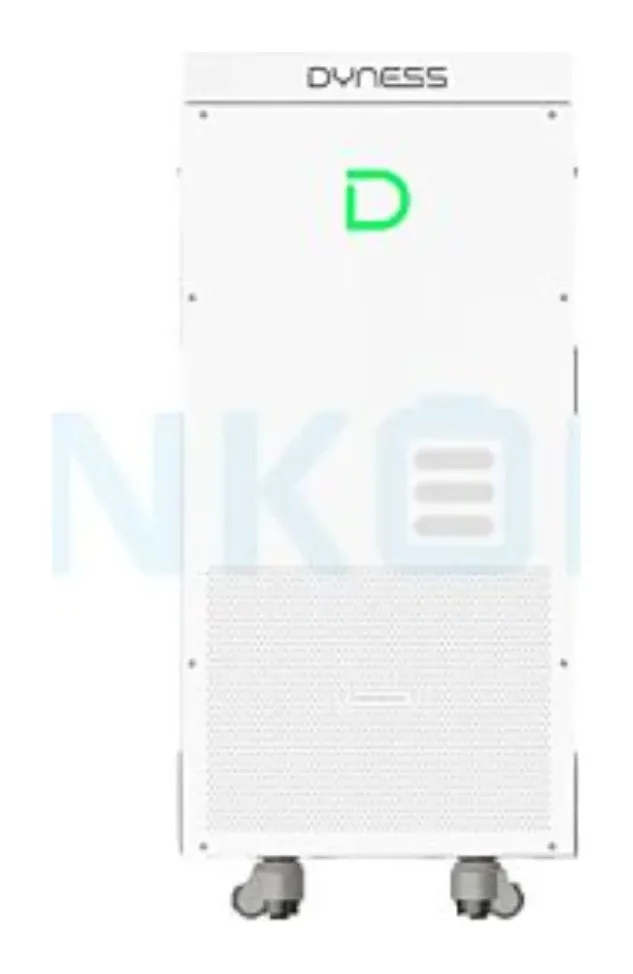
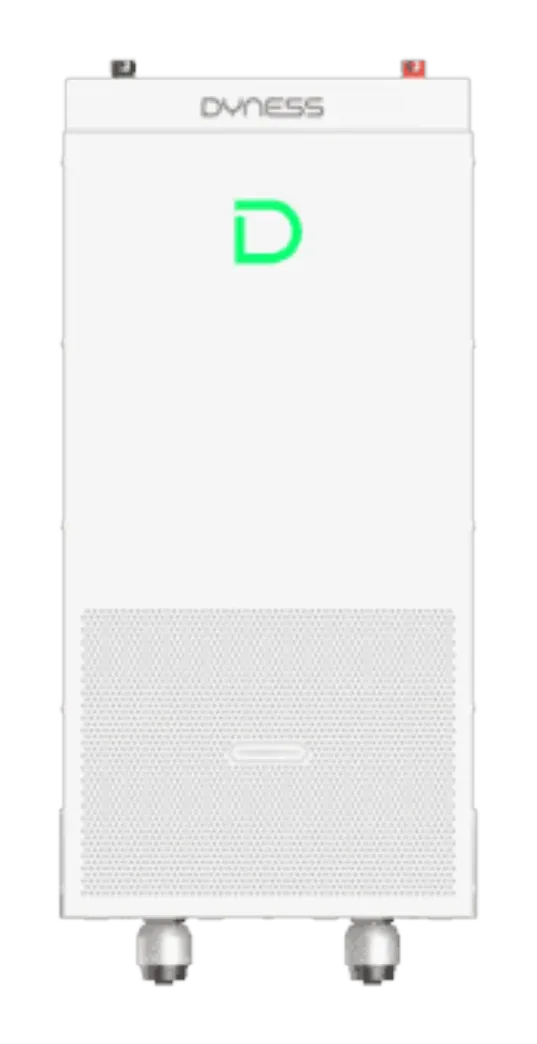
Dyness PowerBrick Plus: scherpere foto van Solarboss
De NKON-foto had een watermerk en was klein aangeleverd. Solarboss heeft
dezelfde vooraanzicht-render op 1200 px, zonder watermerk en met een
transparante achtergrond (werkstroom-run 33).

Claude-Session: https://claude.ai/code/session_01WwJTM9KRpQKYTJ67DSpkZU

diff --git a/sites/batterijmaatje/batterij/dyness-powerbrick-plus.html b/sites/batterijmaatje/batterij/dyness-powerbrick-plus.html
@@ -110,7 +110,7 @@
     </div>
     <div class="kaart-foto batterij-foto-groot">
       <img src="/assets/producten/dyness-powerbrick-plus.webp" alt="Dyness PowerBrick Plus (16 kWh)" loading="lazy" decoding="async" width="900" height="600">
-      <span class="foto-bron">foto: NKON</span>
+      <span class="foto-bron">foto: Solarboss</span>
     </div>
   </div>
 
